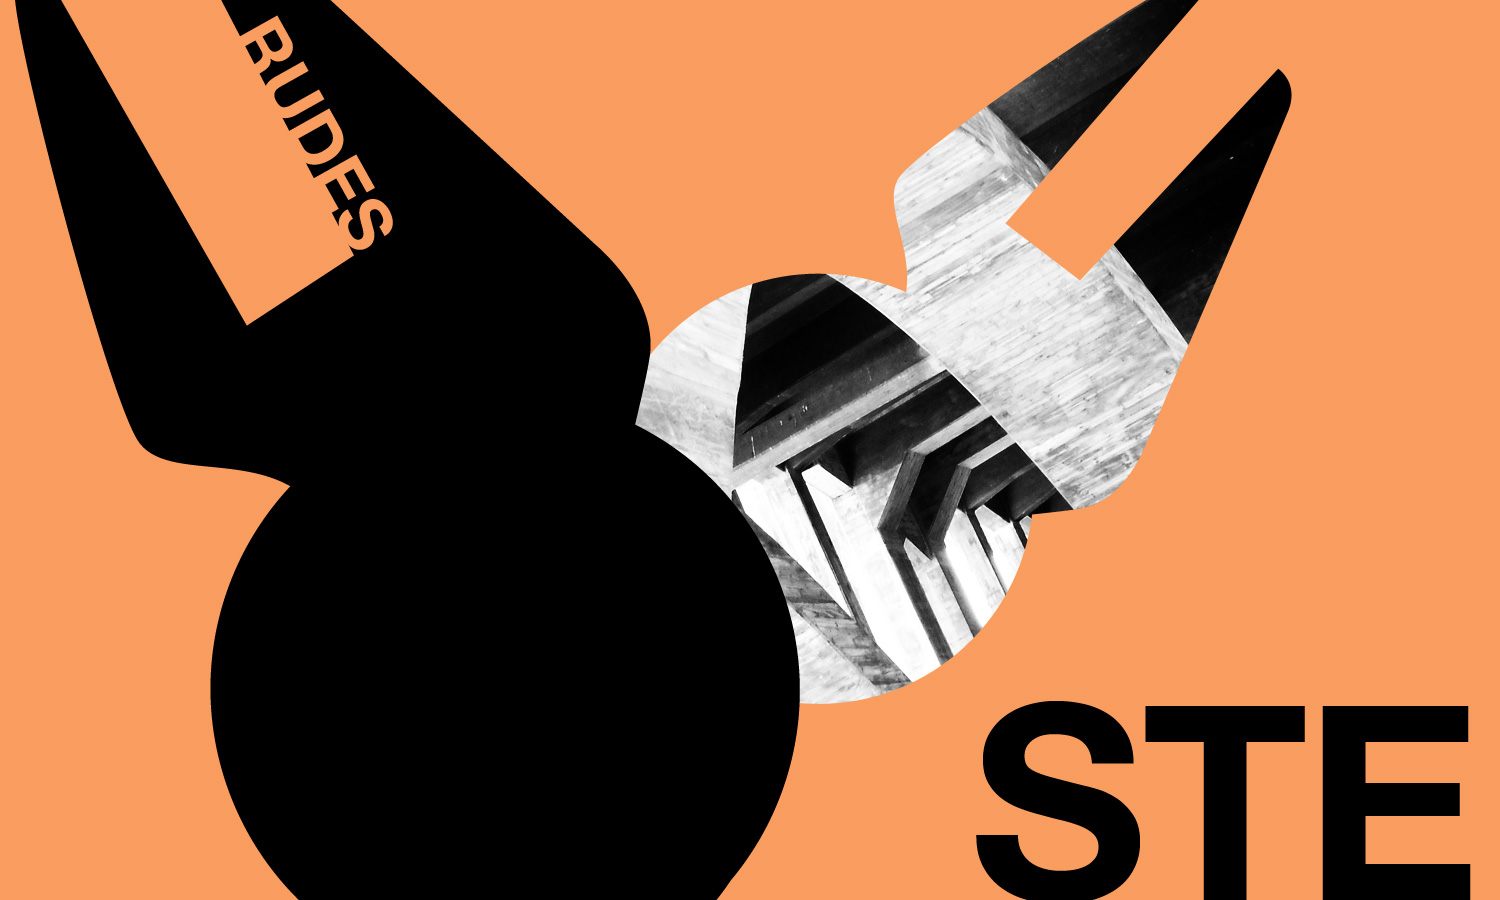
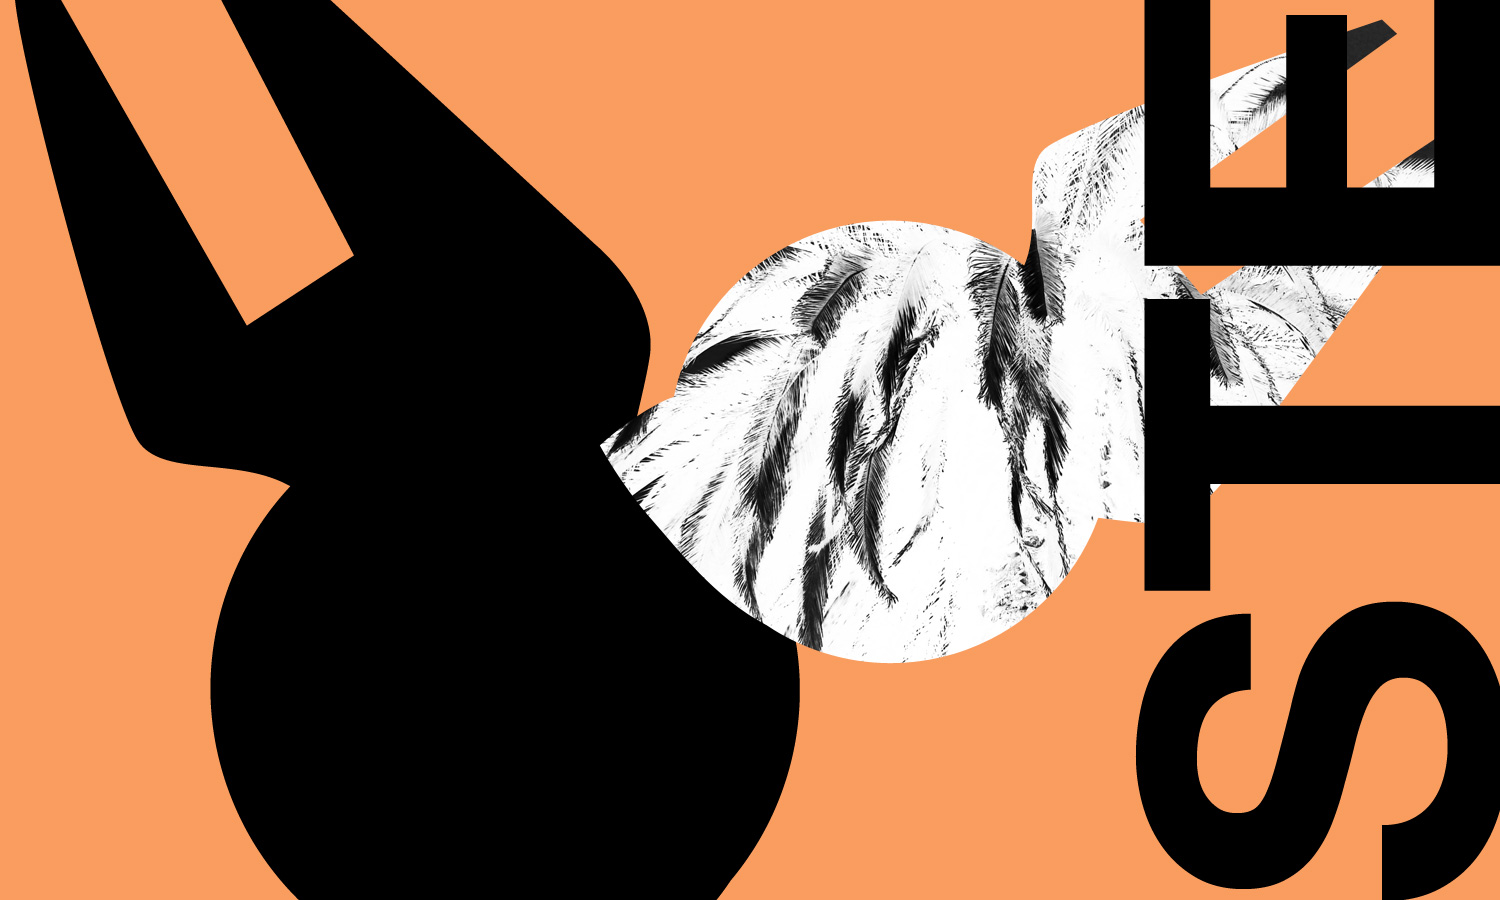
Added new home image redesign

Changed region(s): [[0.3987, 0.0, 1.0, 1.0], [0.1533, 0.0, 0.276, 0.28]]

diff --git a/public/stylesheets/style.css b/public/stylesheets/style.css
@@ -171,7 +171,7 @@ height: 100px;
 
 
 .primary {
-  background: url("../images/arthome.jpg") no-repeat scroll center center / 100% auto rgba(0, 0, 0, 0);
+  background: url("../images/arthome.png") no-repeat scroll center center / 100% auto rgba(0, 0, 0, 0);
   display: block;
   height: 0;
   padding-bottom: 60%;
